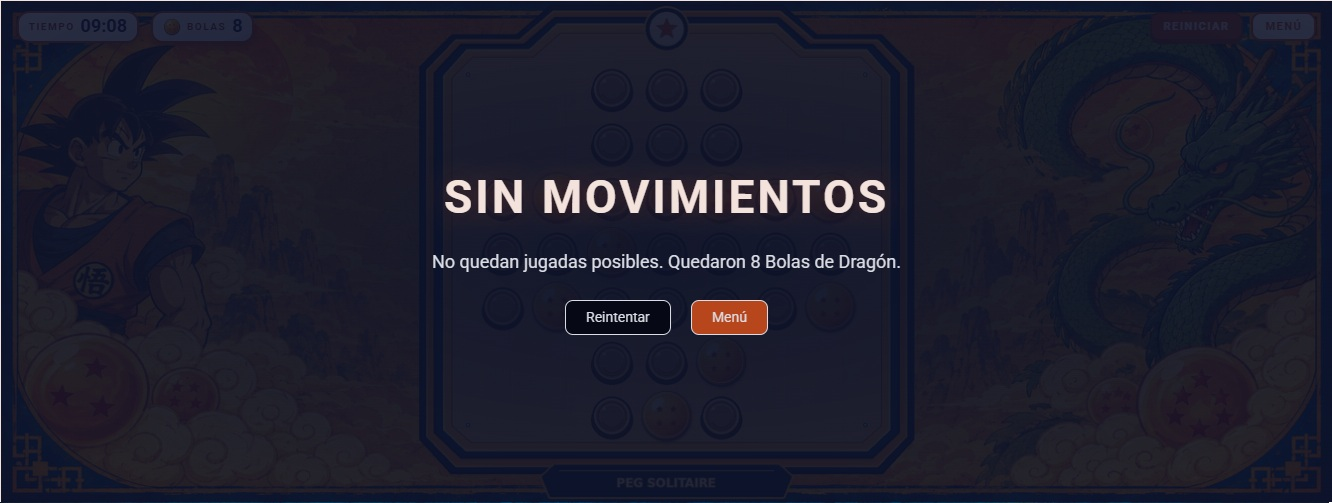
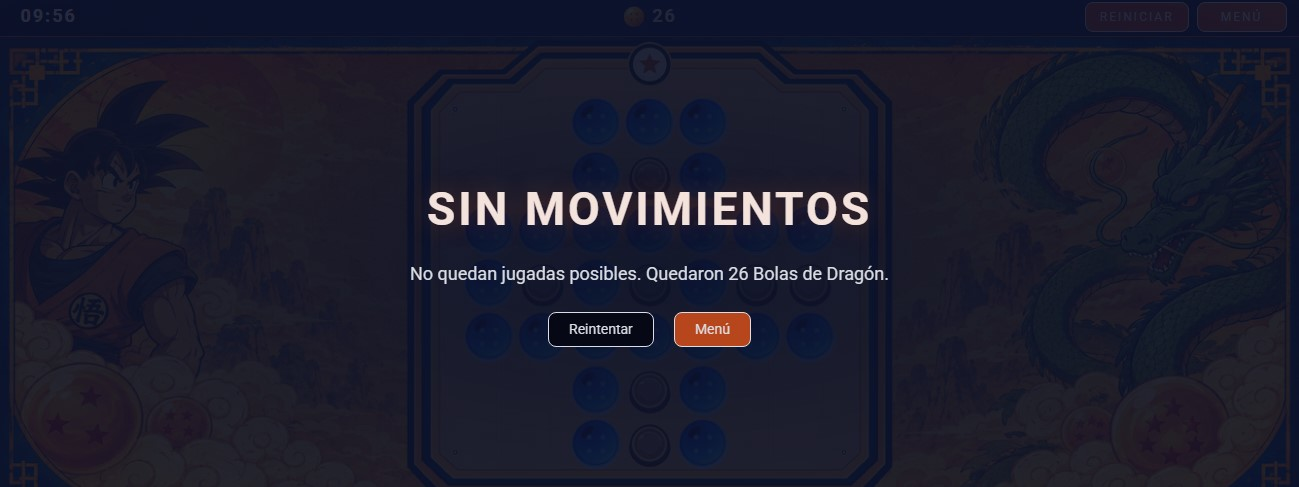
Retoques UI gameplay

diff --git a/TPE-Interfaces/SegundaEntrega/css/pegSolitaire-game.css b/TPE-Interfaces/SegundaEntrega/css/pegSolitaire-game.css
@@ -21,71 +21,114 @@
     /* Contexto de apilamiento propio: las fases y el HUD quedan sobre el
        canvas. */
     isolation: isolate;
+    display: grid;
+    grid-template-rows: auto 1fr;
 }
 
 #canvas-game-peg {
-    position: absolute;
-    inset: 0;
+    grid-row: 2;
+    position: relative;
+    inset: auto;
     width: 100%;
     height: 100%;
     display: block;
     cursor: pointer;
 }
 
-/* HUD: reloj, contador de fichas y botones de reinicio/menu.
-   El contenedor no captura el mouse para no cortar el arrastre; los botones si.
-   Las lecturas usan tarjetas crema con el naranja de la marca, en linea con
-   los paneles del menu y de skins. */
+/* Barra HUD dentro del tablero, arriba y pegada al canvas */
+.gameHudBar {
+    grid-row: 1;
+    width: 100%;
+    margin: 0;
+    padding: 4px 14px;
+    box-sizing: border-box;
+    background: linear-gradient(90deg, #0a1028 0%, #121B3F 50%, #0a1028 100%);
+    border: none;
+    border-bottom: 1px solid #B8461D;
+    border-radius: 0;
+    box-shadow: none;
+    z-index: 6;
+}
+
+.gameHudBar.hidden {
+    display: none;
+}
+
+/* HUD: cronómetro, contador de fichas y botones */
 .gameHud {
-    position: absolute;
-    top: 10px;
-    left: 16px;
-    right: 16px;
-    display: flex;
+    position: static;
+    top: auto;
+    left: auto;
+    right: auto;
+    display: grid;
+    grid-template-columns: 1fr auto 1fr;
     align-items: center;
     gap: 12px;
-    z-index: 5;
+    width: 100%;
+    z-index: auto;
     pointer-events: none;
+}
+
+.gameHudSide {
+    display: flex;
+    align-items: center;
+    gap: 10px;
+}
+
+.gameHudSide--left {
+    justify-self: start;
+}
+
+.gameHudSide--center {
+    justify-self: center;
+}
+
+.gameHudSide--right {
+    justify-self: end;
 }
 
 .gameHudStat {
     display: flex;
     align-items: center;
     gap: 6px;
-    padding: 4px 10px;
-    border: 2px solid #B8461D;
-    border-radius: 12px;
-    background-color: #FFF8F3;
-    box-shadow:
-        0 3px 10px rgba(0, 0, 0, 0.35),
-        inset 0 1px 0 rgba(255, 255, 255, 0.7);
+    padding: 2px 8px;
+}
+
+.gameHudStat--time,
+.gameHudStat--chips {
+    background: transparent;
+    border: none;
+    box-shadow: none;
 }
 
 .gameHudIcon {
-    width: 18px;
-    height: 18px;
+    width: 24px;
+    height: 24px;
     display: block;
     flex: 0 0 auto;
 }
 
-.gameHudLabel {
-    font-size: 10px;
-    font-weight: 700;
-    letter-spacing: 1.5px;
-    text-transform: uppercase;
-    color: #8A3516;
-}
-
 .gameHudValue {
-    font-size: 18px;
+    font-family: inherit;
     font-weight: 700;
     line-height: 1.1;
     font-variant-numeric: tabular-nums;
-    color: #121B3F;
+    letter-spacing: 2px;
+    text-transform: uppercase;
+    color: #F4E3DD;
+    text-shadow: 0 2px 6px rgba(0, 0, 0, 0.6);
+}
+
+.gameHudValue--time {
+    font-size: 18px;
+}
+
+.gameHudValue--chips {
+    font-size: 18px;
 }
 
 .gameHudValue.isLow {
-    color: #8A3516;
+    color: #F5B700;
     animation: pulsoTiempo 1s ease-in-out infinite;
 }
 
@@ -97,7 +140,6 @@
 .gameHudButtons {
     display: flex;
     gap: 8px;
-    margin-left: auto;
     pointer-events: auto;
 }
 
@@ -105,54 +147,20 @@
     display: none;
 }
 
-.gameHudButton {
-    pointer-events: auto;
-    padding: 6px 12px;
-    border: 2px solid #8A3516;
-    border-radius: 10px;
-    background-color: #B8461D;
-    color: #F4E3DD;
-    font-family: inherit;
-    font-size: 11px;
-    font-weight: 700;
-    letter-spacing: 1.5px;
+.gameHudBtn {
+    width: auto;
+    min-width: 90px;
+    height: 30px;
+    padding: 0 14px;
+    font-size: 12px;
+    letter-spacing: 2px;
     text-transform: uppercase;
-    box-shadow: 0 3px 0 #8A3516;
-    cursor: pointer;
-    transition: background-color 0.2s ease, box-shadow 0.2s ease, transform 0.2s ease;
-}
-
-.gameHudButton:hover {
-    background-color: #8A3516;
-    box-shadow: 0 4px 0 #5F2410;
-    transform: translateY(-1px);
-}
-
-.gameHudButton:active {
-    box-shadow: 0 1px 0 #8A3516;
-    transform: translateY(1px);
-}
-
-.gameHudButton--ghost {
-    background-color: #FFF8F3;
-    border-color: #B8461D;
-    color: #B8461D;
-    box-shadow: 0 3px 0 rgba(184, 70, 29, 0.35);
-}
-
-.gameHudButton--ghost:hover {
-    background-color: #F4E3DD;
-    color: #8A3516;
-    box-shadow: 0 4px 0 rgba(138, 53, 22, 0.35);
-}
-
-.gameHudButton--ghost:active {
-    box-shadow: 0 1px 0 rgba(184, 70, 29, 0.35);
 }
 
 /* Fases del juego: menu principal, skins e instrucciones */
 
 .gamePhase {
+    grid-row: 1 / span 2;
     position: absolute;
     inset: 0;
     z-index: 10;
@@ -395,6 +403,7 @@
 /* Cartel de fin de partida */
 
 .endMenu {
+    grid-row: 1 / span 2;
     position: absolute;
     inset: 0;
     z-index: 20;

diff --git a/TPE-Interfaces/SegundaEntrega/pegSolitaire.html b/TPE-Interfaces/SegundaEntrega/pegSolitaire.html
@@ -64,23 +64,29 @@
 
     <section class="gamePlay">
         <div class="gameBoard gameBoardPeg">
-            <canvas id="canvas-game-peg" width="1340" height="507" aria-label="Tablero de Dragon Ball Z: Peg Solitaire"></canvas>
-
-            <div class="gameHud hidden" id="gameHud">
-                <div class="gameHudStat">
-                    <span class="gameHudLabel">Tiempo</span>
-                    <span class="gameHudValue" id="pegTimer">10:00</span>
-                </div>
-                <div class="gameHudStat">
-                    <img class="gameHudIcon" src="pegSolitaire/assets/ficha.svg" alt="">
-                    <span class="gameHudLabel">Bolas</span>
-                    <span class="gameHudValue" id="pegChips">32</span>
-                </div>
-                <div class="gameHudButtons">
-                    <button type="button" class="gameHudButton" id="pegRestart">Reiniciar</button>
-                    <button type="button" class="gameHudButton gameHudButton--ghost" id="pegMenu">Menú</button>
+            <div class="gameHudBar hidden" id="gameHudBar">
+                <div class="gameHud" id="gameHud">
+                    <div class="gameHudSide gameHudSide--left">
+                        <div class="gameHudStat gameHudStat--time">
+                            <span class="gameHudValue gameHudValue--time" id="pegTimer">10:00</span>
+                        </div>
+                    </div>
+                    <div class="gameHudSide gameHudSide--center">
+                        <div class="gameHudStat gameHudStat--chips">
+                            <img class="gameHudIcon" src="pegSolitaire/assets/ficha.svg" alt="">
+                            <span class="gameHudValue gameHudValue--chips" id="pegChips">32</span>
+                        </div>
+                    </div>
+                    <div class="gameHudSide gameHudSide--right">
+                        <div class="gameHudButtons">
+                            <button type="button" class="btn btnSecondary gameHudBtn" id="pegRestart">Reiniciar</button>
+                            <button type="button" class="btn btnSecondary gameHudBtn" id="pegMenu">Menú</button>
+                        </div>
+                    </div>
                 </div>
             </div>
+
+            <canvas id="canvas-game-peg" width="1340" height="507" aria-label="Tablero de Dragon Ball Z: Peg Solitaire"></canvas>
 
             <div class="gamePhase faseMenu" id="startMenu">
                 <div class="menuPanel">

diff --git a/TPE-Interfaces/SegundaEntrega/pegSolitaire/js/view/PegSolitaireView.js b/TPE-Interfaces/SegundaEntrega/pegSolitaire/js/view/PegSolitaireView.js
@@ -57,6 +57,7 @@ class PegSolitaireView {
             restart: $('pegRestart'),
             menu: $('pegMenu'),
             hud: $('gameHud'),
+            hudBar: $('gameHudBar'),
             startMenu: $('startMenu'),
             btnJugar: $('btnJugar'),
             btnSkins: $('btnSkins'),
@@ -404,6 +405,9 @@ class PegSolitaireView {
 
         const inGame = phase === 'game';
         this.ui.hud.classList.toggle('hidden', !inGame);
+        if (this.ui.hudBar) {
+            this.ui.hudBar.classList.toggle('hidden', !inGame);
+        }
     }
 
     /**
